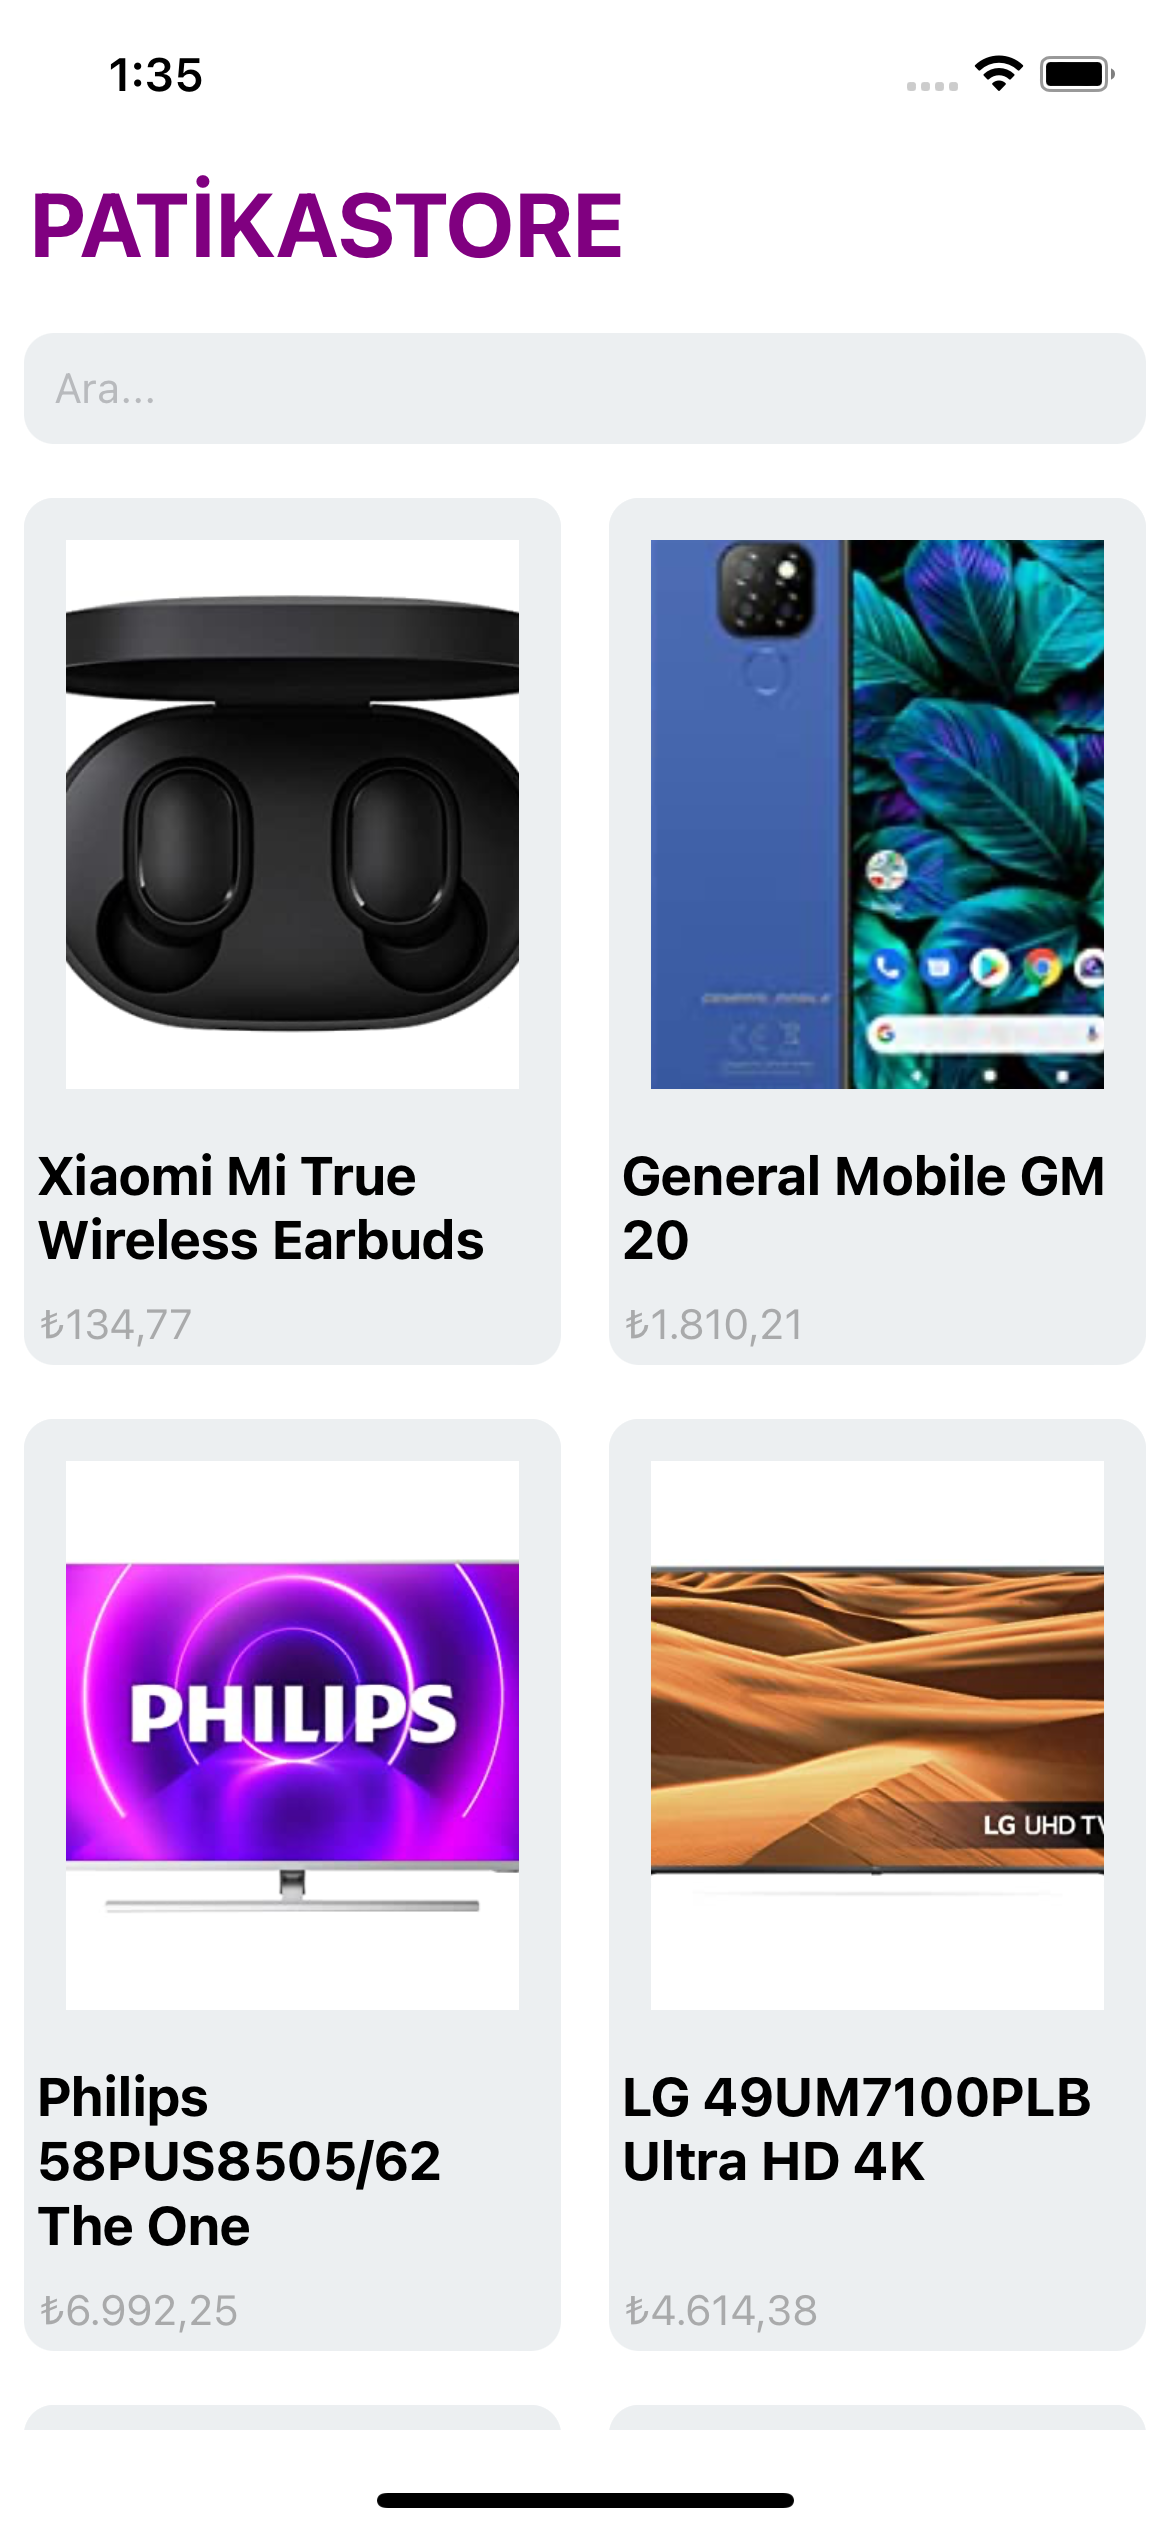
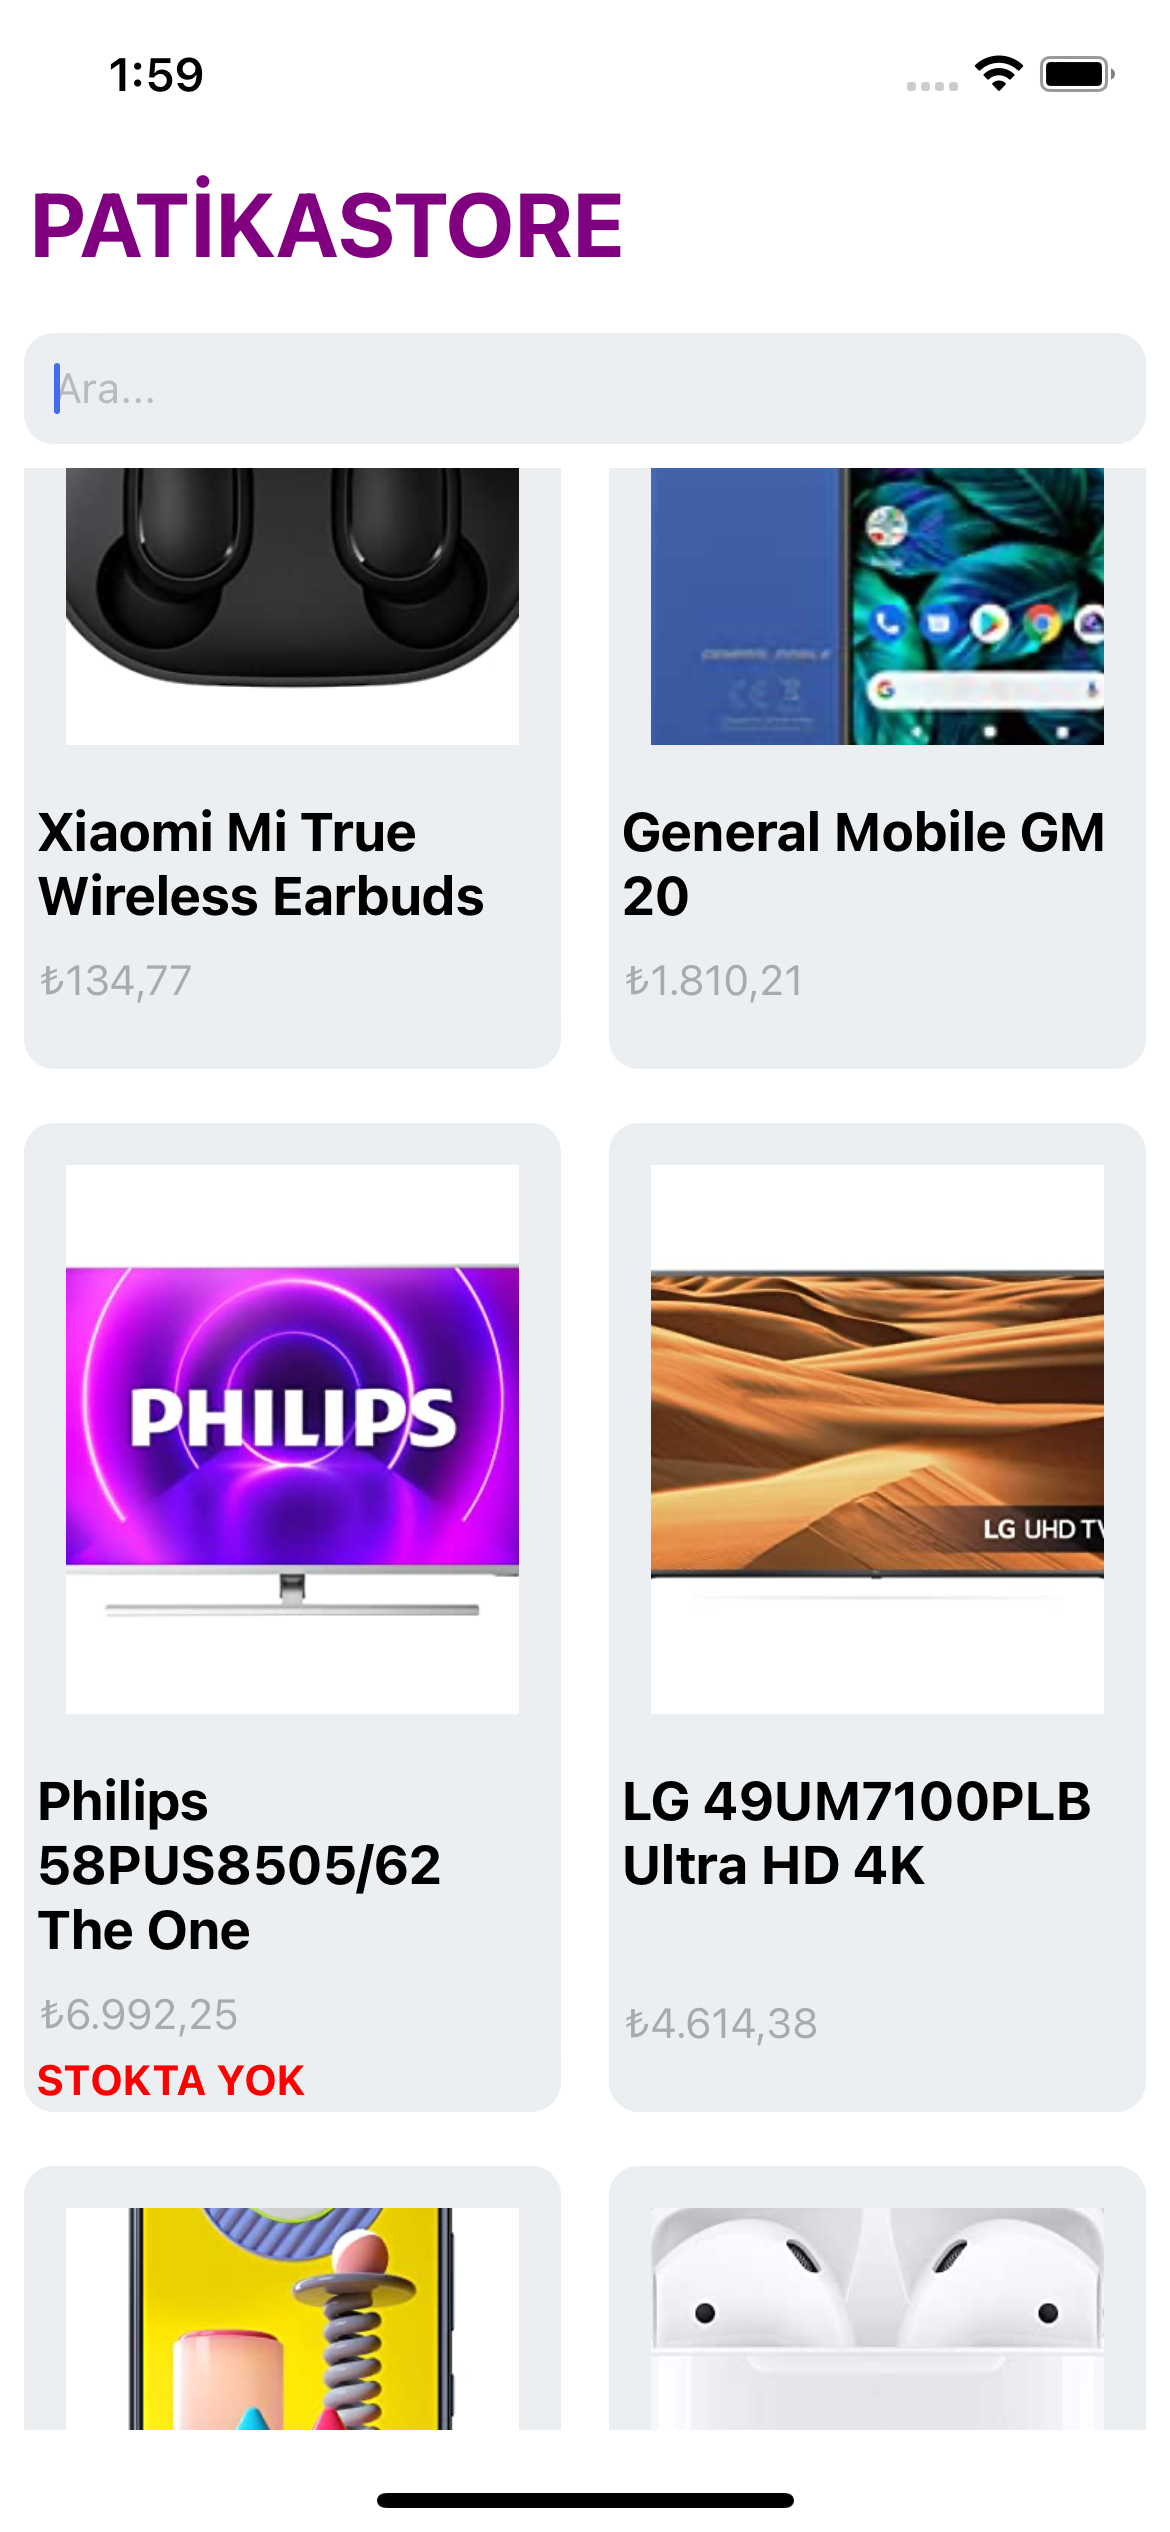
last changes

diff --git a/src/components/ShopItem/ShopItems.js b/src/components/ShopItem/ShopItems.js
@@ -12,6 +12,7 @@ const ShopItems = ({items}) => {
             <Image style={styles.image} source={{uri: items.imgURL}}/>
             <Text style={styles.title}>{items.title}</Text>
             <Text style={styles.price_text}>{items.price}</Text>
+            <Text style={styles.stock_text}>{items.inStock === true ? '' : 'STOKTA YOK'}</Text>
            
         
             

diff --git a/src/components/ShopItem/ShopItems.style.js b/src/components/ShopItem/ShopItems.style.js
@@ -33,7 +33,10 @@ export default StyleSheet.create({
     },
     stock_text: {
         color: 'red',
-        fontSize: 18,
+        fontSize: 14,
+        paddingLeft: 4,
+        paddingBottom: 2,
+        fontWeight: 'bold',
     },
 
 
